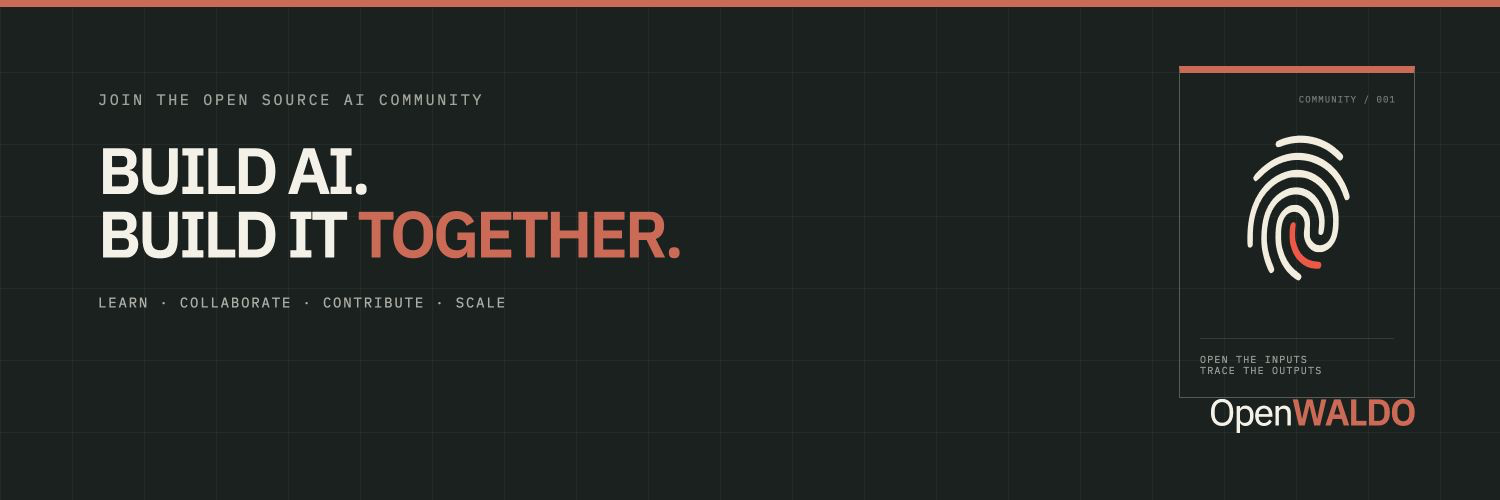
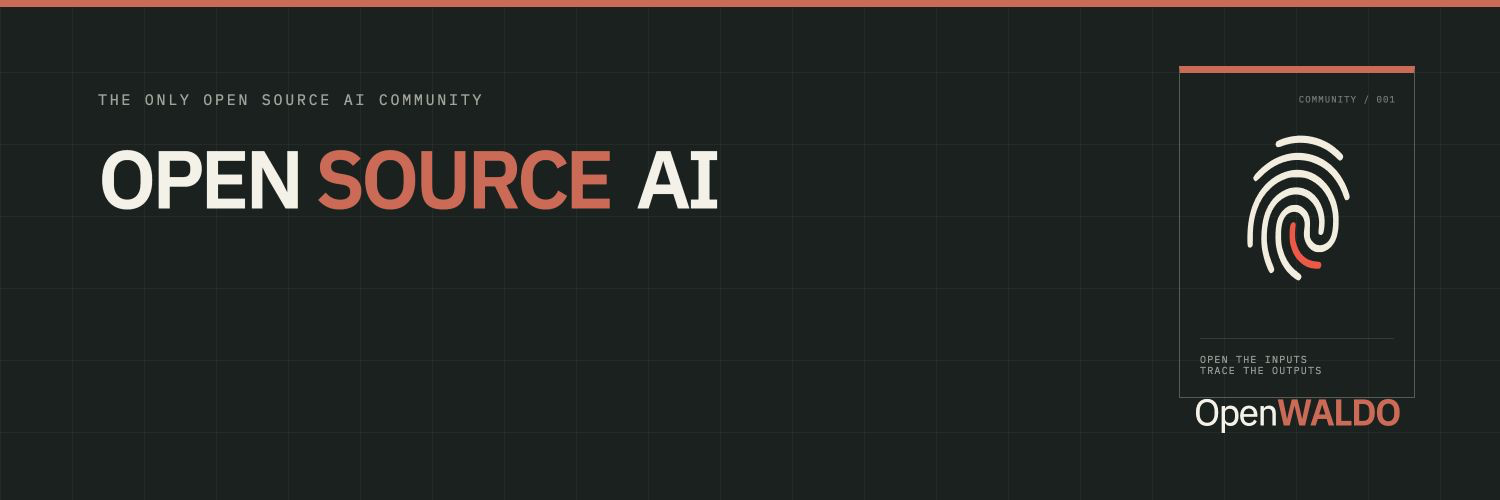
Refine OpenWALDO X header messaging

diff --git a/assets/x-header-source.html b/assets/x-header-source.html
@@ -57,28 +57,25 @@
       }
       h1 {
         margin: 0;
-        font-size: 65px;
+        font-size: 82px;
         line-height: 0.98;
         letter-spacing: -0.052em;
         font-weight: 600;
       }
       h1 span {
         color: #d9634f;
-      }
-      .community-line {
-        margin: 30px 0 0;
-        color: rgba(244, 241, 232, 0.68);
-        font: 14px/1 "Plex Mono", monospace;
-        letter-spacing: 0.13em;
+        margin-right: 0.13em;
       }
       .brand {
         position: absolute;
         right: 85px;
         bottom: 70px;
+        width: 236px;
         margin: 0;
         font-size: 37px;
         line-height: 1;
         letter-spacing: -0.04em;
+        text-align: center;
       }
       .brand strong {
         color: #d9634f;
@@ -125,9 +122,8 @@
   <body>
     <main class="banner">
       <div class="copy">
-        <p class="eyebrow">JOIN THE OPEN SOURCE AI COMMUNITY</p>
-        <h1>BUILD AI.<br />BUILD IT <span>TOGETHER.</span></h1>
-        <p class="community-line">LEARN · COLLABORATE · CONTRIBUTE · SCALE</p>
+        <p class="eyebrow">THE ONLY OPEN SOURCE AI COMMUNITY</p>
+        <h1>OPEN <span>SOURCE</span> AI</h1>
       </div>
       <div class="mark-panel">
         <span class="serial">COMMUNITY / 001</span>
